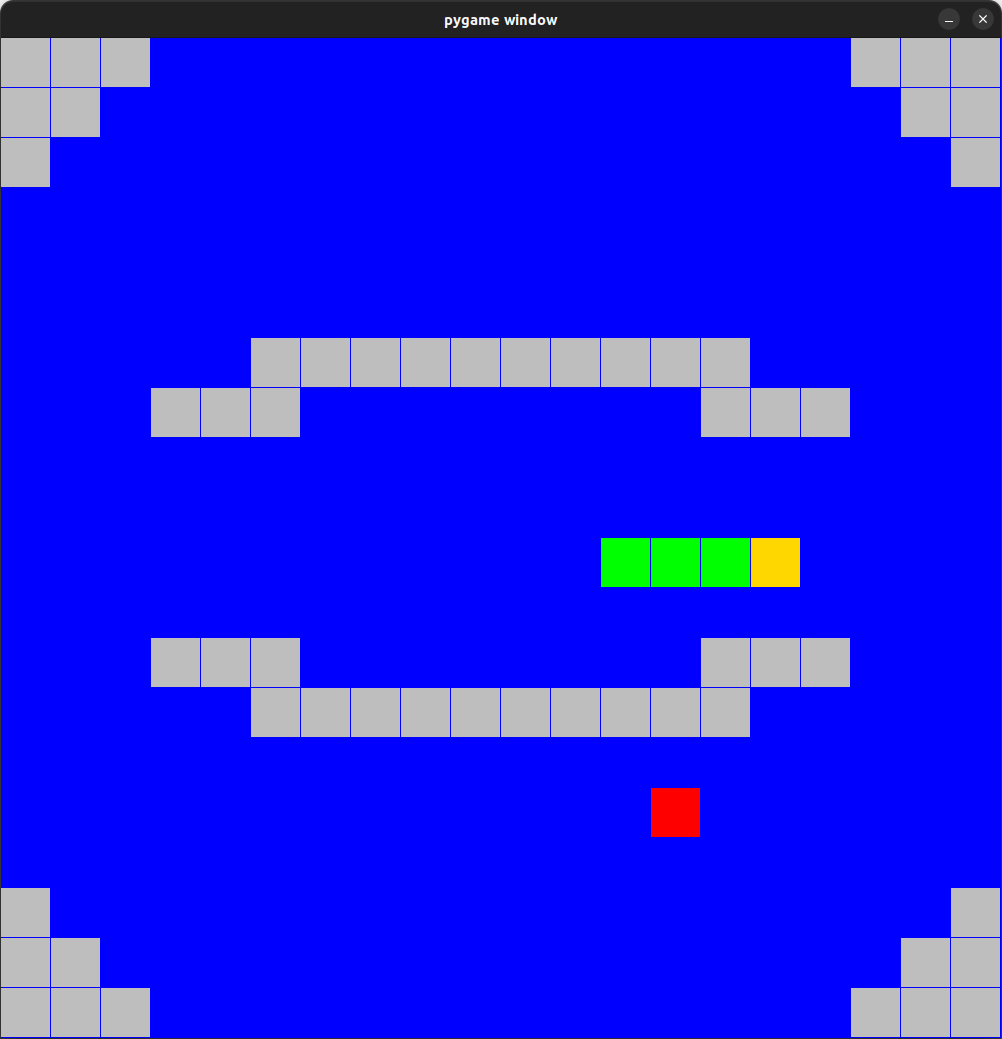
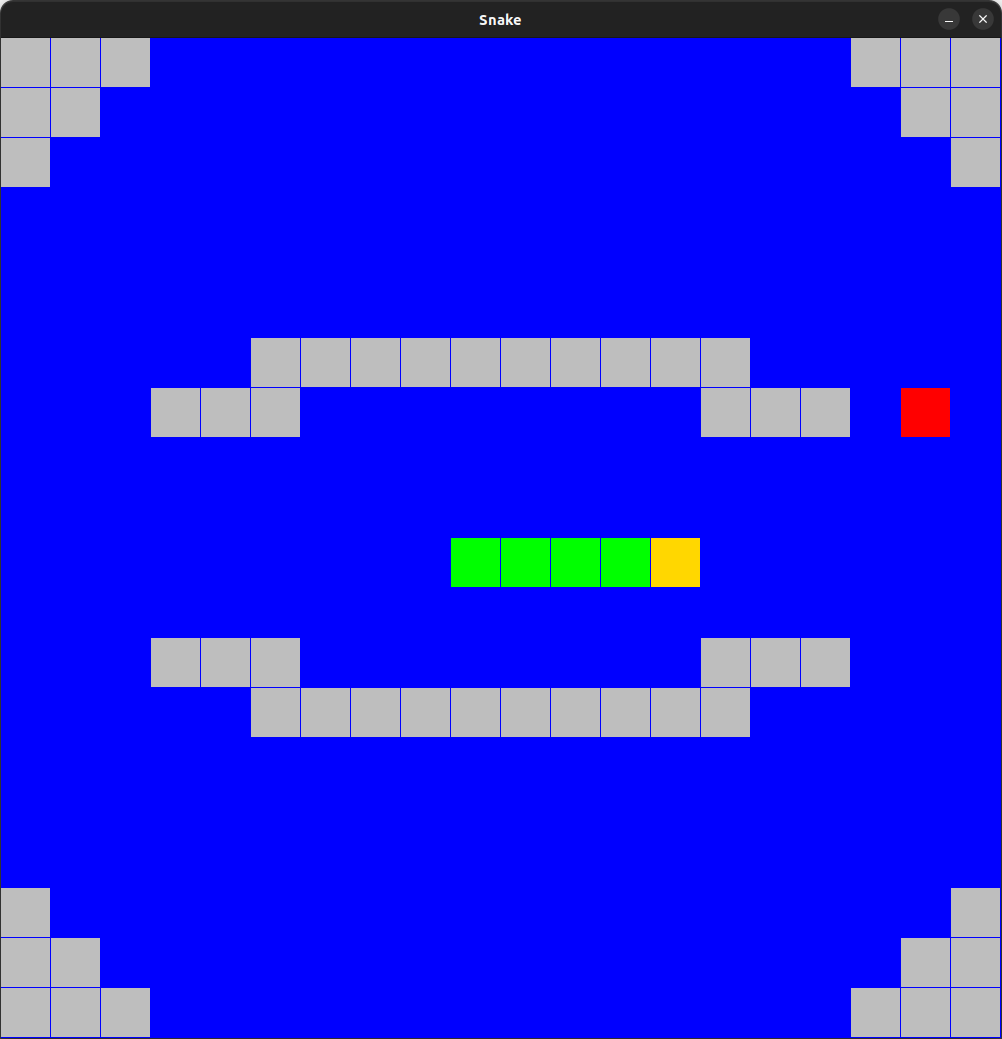
changed pygame window name and removed magical constants

diff --git a/snakeGame/snake.py b/snakeGame/snake.py
@@ -1,4 +1,18 @@
 import pygame
+from enum import Enum
+
+
+class SnakeDirection(Enum):
+    UP = 1
+    DOWN = 2
+    LEFT = 3
+    RIGHT = 4
+    NONE = 5
+
+
+class SnakeStatus(Enum):
+    MOVE = 1
+    STAY = 2
 
 
 class Snake():
@@ -9,7 +23,7 @@ class Snake():
         self.bodyCoords = [startPos]
         self.nowSpeed = self.kStartSpeed
         self.cycleCnt = 0
-        self.nowDirection = 'NS'
+        self.nowDirection = SnakeDirection.NONE
         self.directionIsSwitched = False
 
     def updateCycle(self):
@@ -18,42 +32,48 @@ class Snake():
         if self.cycleCnt == self.nowSpeed:
             self.cycleCnt = 0
             self.directionIsSwitched = False
-            if self.nowDirection != 'NS':
-                return 'Move'
-        return 'Stay'
+            if self.nowDirection != SnakeDirection.NONE:
+                return SnakeStatus.MOVE
+        return SnakeStatus.STAY
 
     def trySwitchDirection(self):
         if self.directionIsSwitched:
             return
         key = pygame.key.get_pressed()
-        if key[pygame.K_w] and not (self.nowDirection in {'W', 'S'}):
-            self.nowDirection = 'W'
+        if key[pygame.K_w] and not (self.nowDirection in
+                                    {SnakeDirection.UP, SnakeDirection.DOWN}):
+            self.nowDirection = SnakeDirection.UP
             self.directionIsSwitched = True
             return
-        if key[pygame.K_s] and not (self.nowDirection in {'W', 'S'}):
-            self.nowDirection = 'S'
+        if key[pygame.K_s] and not (self.nowDirection in
+                                    {SnakeDirection.UP, SnakeDirection.DOWN}):
+            self.nowDirection = SnakeDirection.DOWN
             self.directionIsSwitched = True
             return
-        if key[pygame.K_a] and not (self.nowDirection in {'A', 'D'}):
-            self.nowDirection = 'A'
+        if key[pygame.K_a] and not (self.nowDirection in
+                                    {SnakeDirection.LEFT,
+                                     SnakeDirection.RIGHT}):
+            self.nowDirection = SnakeDirection.LEFT
             self.directionIsSwitched = True
             return
-        if key[pygame.K_d] and not (self.nowDirection in {'A', 'D'}):
-            self.nowDirection = 'D'
+        if key[pygame.K_d] and not (self.nowDirection in
+                                    {SnakeDirection.LEFT,
+                                     SnakeDirection.RIGHT}):
+            self.nowDirection = SnakeDirection.RIGHT
             self.directionIsSwitched = True
             return
 
     def getNewHeadPos(self):
-        if self.nowDirection == 'NS':
+        if self.nowDirection == SnakeDirection.NONE:
             return self.bodyCoords[0]
         dx, dy = 0, 0
-        if self.nowDirection == 'W':
+        if self.nowDirection == SnakeDirection.UP:
             dy = -1
-        if self.nowDirection == 'S':
+        if self.nowDirection == SnakeDirection.DOWN:
             dy = 1
-        if self.nowDirection == 'A':
+        if self.nowDirection == SnakeDirection.LEFT:
             dx = -1
-        if self.nowDirection == 'D':
+        if self.nowDirection == SnakeDirection.RIGHT:
             dx = 1
         return (self.bodyCoords[-1][0] + dx, self.bodyCoords[-1][1] + dy)
 

diff --git a/snakeGame/level.py b/snakeGame/level.py
@@ -1,6 +1,19 @@
 import pygame
 import random
-from snake import Snake
+from snake import Snake, SnakeStatus
+from enum import Enum
+
+
+class LevelStatus(Enum):
+    BUMPED = 1
+    ATE_APPLE = 2
+
+
+class GameStatus(Enum):
+    PLAY_LEVEL = 1
+    QUIT_LEVEL = 2
+    SHOW_MENU = 3
+    QUIT_GAME = 4
 
 
 class Level():
@@ -28,24 +41,23 @@ class Level():
     def tryCloseLevel(self):
         for event in pygame.event.get():
             if event.type == pygame.QUIT:
-                return 'QuitGame'
+                return GameStatus.QUIT_GAME
         key = pygame.key.get_pressed()
         if key[pygame.K_b]:
-            return 'QuitLevel'
-        return 'StillPlaying'
+            return GameStatus.QUIT_LEVEL
+        return GameStatus.PLAY_LEVEL
 
     def updateSnakeMove(self, newSnakeHeadPos):
         if not (newSnakeHeadPos in self.freeCells) and\
               newSnakeHeadPos != self.appleCoords:
-            return 'Bump'
+            return LevelStatus.BUMPED
         self.snake.moveHead(newSnakeHeadPos)
         if newSnakeHeadPos == self.appleCoords:
             self.placeApple()
             self.snake.speedUp()
-            return 'AteApple'
+            return LevelStatus.ATE_APPLE
         self.freeCells.add(self.snake.pullUpTail())
         self.freeCells.discard(newSnakeHeadPos)
-        return 'SimpleMoving'
 
     def getSquareParametrs(self, coord):
         return (coord[0] * self.kCellSize, coord[1] * self.kCellSize,
@@ -79,8 +91,8 @@ class Level():
                                            self.kFieldSize * self.kCellSize])
         clock = pygame.time.Clock()
 
-        quitResult = 'StillPlaying'
-        while quitResult == 'StillPlaying':
+        quitResult = GameStatus.PLAY_LEVEL
+        while quitResult == GameStatus.PLAY_LEVEL:
             surface.fill(pygame.Color('blue'))
             self.drawApple(surface, 'red')
             self.drawSnake(surface, 'gold', 'green')
@@ -89,19 +101,19 @@ class Level():
 
             clock.tick(self.kFPS)
 
-            if self.snake.updateCycle() == 'Move':
+            if self.snake.updateCycle() == SnakeStatus.MOVE:
                 newSnakeHeadPos = tuple(
                     [c % self.kFieldSize for c in self.snake.getNewHeadPos()])
                 moveResult = self.updateSnakeMove(newSnakeHeadPos)
-                if moveResult == 'Bump':
+                if moveResult == LevelStatus.BUMPED:
                     self.showFinalScore(surface, 'cyan')
                     break
-                if moveResult == 'AteApple':
+                if moveResult == LevelStatus.ATE_APPLE:
                     self.score += 1
 
             quitResult = self.tryCloseLevel()
 
-        while quitResult == 'StillPlaying':
+        while quitResult == GameStatus.PLAY_LEVEL:
             clock.tick(self.kFPS)
 
             quitResult = self.tryCloseLevel()

diff --git a/snakeGame/game.py b/snakeGame/game.py
@@ -1,5 +1,5 @@
 import pygame
-from level import Level
+from level import Level, GameStatus
 
 
 class Game():
@@ -31,14 +31,14 @@ class Game():
         if key[pygame.K_5]:
             return 5
         if key[pygame.K_q]:
-            return 'QuitGame'
+            return GameStatus.QUIT_GAME
         return 0
 
     def tryCloseGame(self):
         for event in pygame.event.get():
             if event.type == pygame.QUIT:
-                return 'QuitGame'
-        return 'StillInMenu'
+                return GameStatus.QUIT_GAME
+        return GameStatus.SHOW_MENU
 
     def printMenu(self):
         surface = pygame.display.set_mode([self.kMenuLength, self.kMenuWidth])
@@ -62,24 +62,25 @@ class Game():
 
     def start(self):
         pygame.init()
+        pygame.display.set_caption('Snake')
         clock = pygame.time.Clock()
 
-        quitResult = 'StillInMenu'
-        while quitResult != 'QuitGame':
+        quitResult = GameStatus.SHOW_MENU
+        while quitResult != GameStatus.QUIT_GAME:
             self.printMenu()
 
             kFPS = 30
             clock.tick(kFPS)
 
             levelNum = self.getLevelNum()
-            if levelNum == 'QuitGame':
-                quitResult = 'QuitGame'
+            if levelNum == GameStatus.QUIT_GAME:
+                quitResult = GameStatus.QUIT_GAME
             elif levelNum != 0:
                 quitResult, score = Level(self.getWallCoords(levelNum)).play()
                 self.levelsRecords[levelNum - 1] = max(
                     self.levelsRecords[levelNum - 1], score)
 
-            if quitResult != 'QuitGame':
+            if quitResult != GameStatus.QUIT_GAME:
                 quitResult = self.tryCloseGame()
 
         self.updateFileLevelsRecords()
